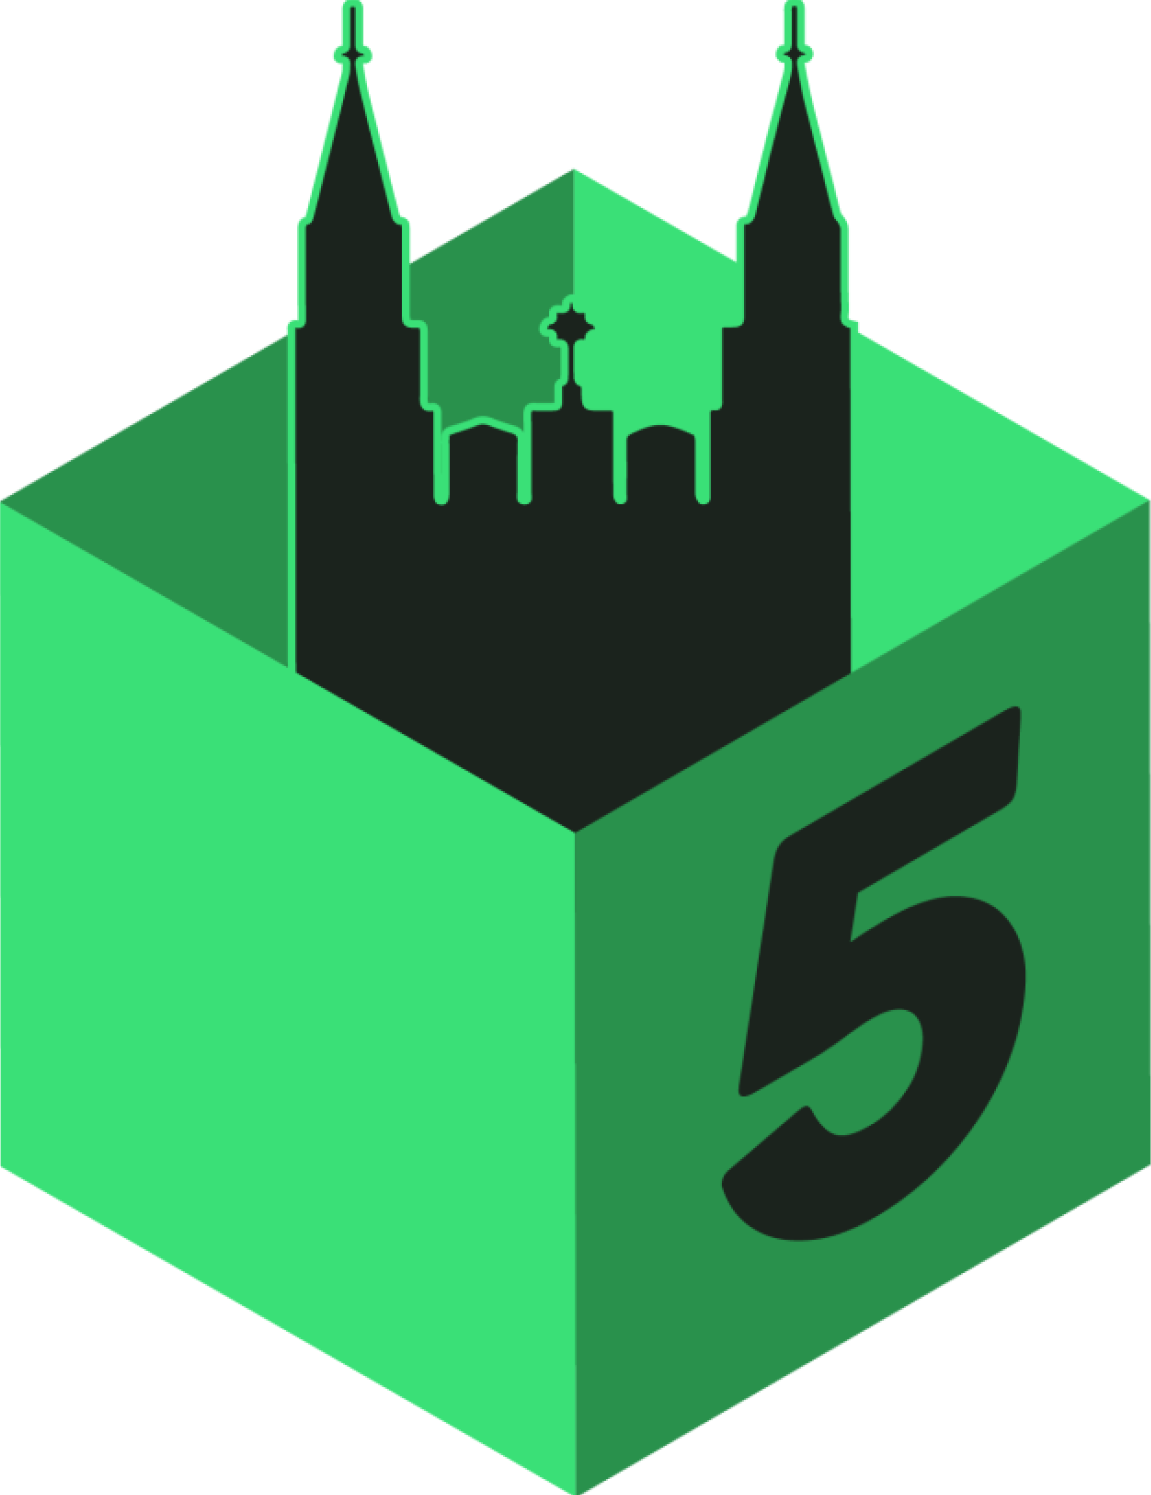
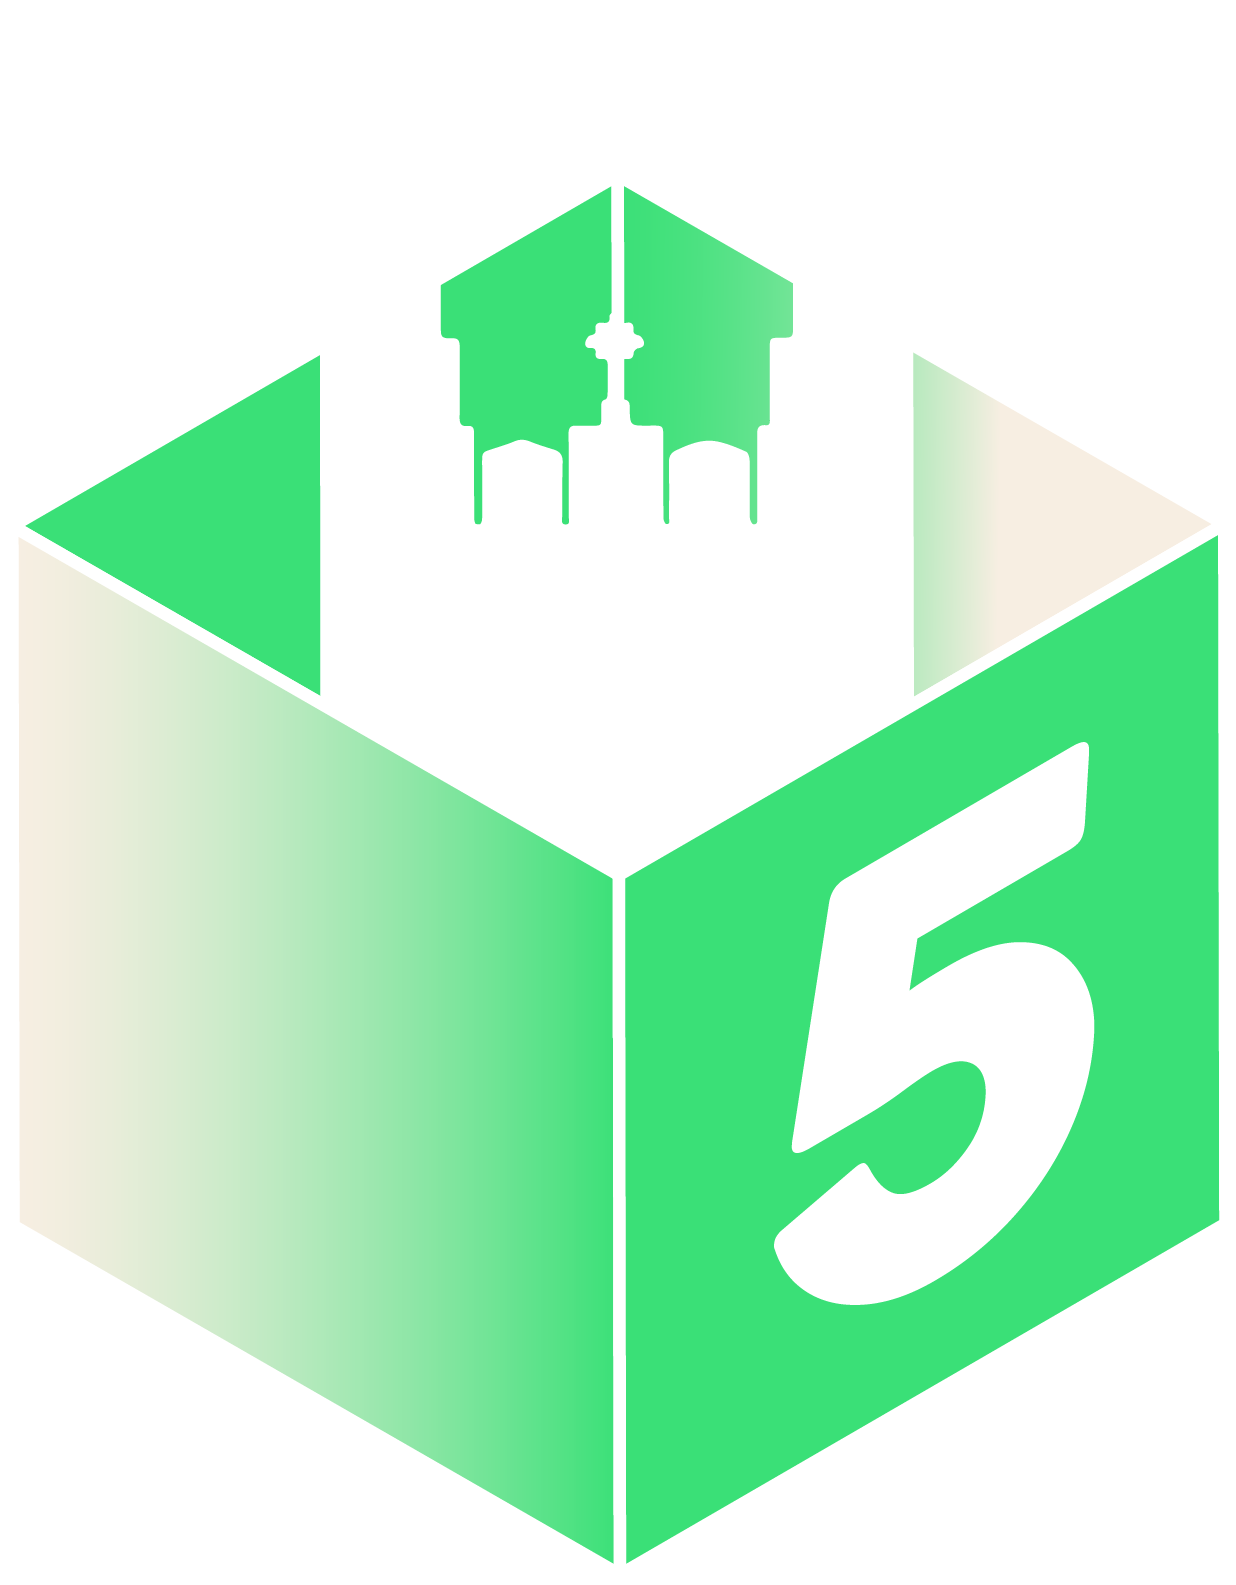
Swap to gradient design

diff --git a/css/styles.css b/css/styles.css
@@ -39,11 +39,11 @@ a:hover {
 }
 
 #inline-text {
-  color: #29abe2 !important;
+  color: #31b414 !important;
 }
 
 #inline-text:hover {
-  color: #ffc65f;
+  color: #20730e;
 }
 
 #nav-bg {
@@ -71,14 +71,14 @@ nav {
 }
 
 .nav-container a {
-  color: #29abe2;
+  color: #31b414;
   padding-top: 10px;
   padding-bottom: 15px;
   transition: 0.3s ease-in-out;
 }
 
 .nav-container a:hover {
-  color: #ffc65f;
+  color: #20730e;
   transition: 0.3s ease-in-out;
 }
 
@@ -110,11 +110,11 @@ nav {
 }
 
 .button-outline {
-  color: #29abe2;
+  color: #31b414;
 }
 
 .button-filled {
-  background-color: #29abe2;
+  background-color: #31b414;
   color: white;
 }
 
@@ -122,7 +122,7 @@ nav {
   font-weight: 800;
   padding: 8px 40px;
   margin: 25px 0 25px 0;
-  border: 2px solid #29abe2;
+  border: 2px solid #31b414;
   border-radius: 25px;
   transition: 0.3s ease-in-out;
 }
@@ -130,14 +130,14 @@ nav {
 .bn:hover {
   text-decoration: none;
   color: white;
-  border-color: #ffc65f;
-  background-color: #ffc65f;
+  border-color: #20730e;
+  background-color: #20730e;
   transition: 0.3s ease-in-out;
 }
 
 .inline a {
   font-weight: 900;
-  color: #29abe2;
+  color: #31b414;
 }
 
 .header-section {
@@ -224,7 +224,7 @@ nav {
 .grid-item i {
   margin-bottom: 15px;
   font-size: 65px;
-  color: #29abe2;
+  color: #31b414;
 }
 
 @media (max-width: 450px) {
@@ -249,7 +249,7 @@ nav {
   .grid-item i {
     margin-bottom: 15px;
     font-size: 65px;
-    color: #29abe2;
+    color: #31b414;
   }
 }
 
@@ -281,7 +281,7 @@ nav {
 }
 
 .footer {
-  background-color: #29abe2;
+  background-color: #31b414;
   height: 60px;
 }
 
@@ -310,12 +310,12 @@ nav {
 }
 
 .footer-grid-item i:hover {
-  color: #ffc65f;
+  color: #20730e;
 }
 
 #footer-copyright {
   color: white;
-  background-color: #29abe2;
+  background-color: #31b414;
   text-align: center;
   padding-bottom: 15px;
 }
@@ -370,7 +370,7 @@ nav {
   width: 35px;
   height: 35px;
   opacity: .25;
-  background-color: #ffc65f;
+  background-color: #20730e;
   display: inline-block;
   -webkit-animation: blinks 1.7s infinite;
   -moz-animation: blinks 1.7s infinite;
@@ -399,7 +399,7 @@ nav {
   text-align: center;
   font-size: 2em;
   font-weight: bold;
-  color: #29abe2;
+  color: #31b414;
   width: 43%;
   margin-left: 5%;
   margin-top: 25px;

diff --git a/index.html b/index.html
@@ -1,4 +1,4 @@
-<!DOCTYPE html>
+<!DOCTYPE html>
 <html lang="en">
 
 <head>
@@ -30,7 +30,7 @@
 
 
   <!-- <img src="/img/circle.svg" id="circle-1"> -->
-  <img src="./img/hth4-full-logo.png" id="nav-bg" />
+  <img src="./img/hth5-full-logo.png" id="nav-bg" />
 
 
   <div class="header-section fade" id="home">
@@ -67,11 +67,11 @@
             | 24 HOURS
           </h1>
           <p id="event-description">
-            We are excited to introduce Boston College's fourth overnight
+            We are excited to introduce Boston College's fifth overnight
             hackathon! Hack the Heights will feature technical workshops, tech
             talks, corporate sponsors, and prizes for beginners and seasoned hackers alike. The event
-            kicks off at 12:00 AM on Saturday, February 15 and concludes on Sunday,
-            February 16.
+            kicks off at 12:00 AM on Saturday, November 14 and concludes on Sunday,
+            November 15.
           </p>
           <div class="grid">
             <div class="grid-item">
